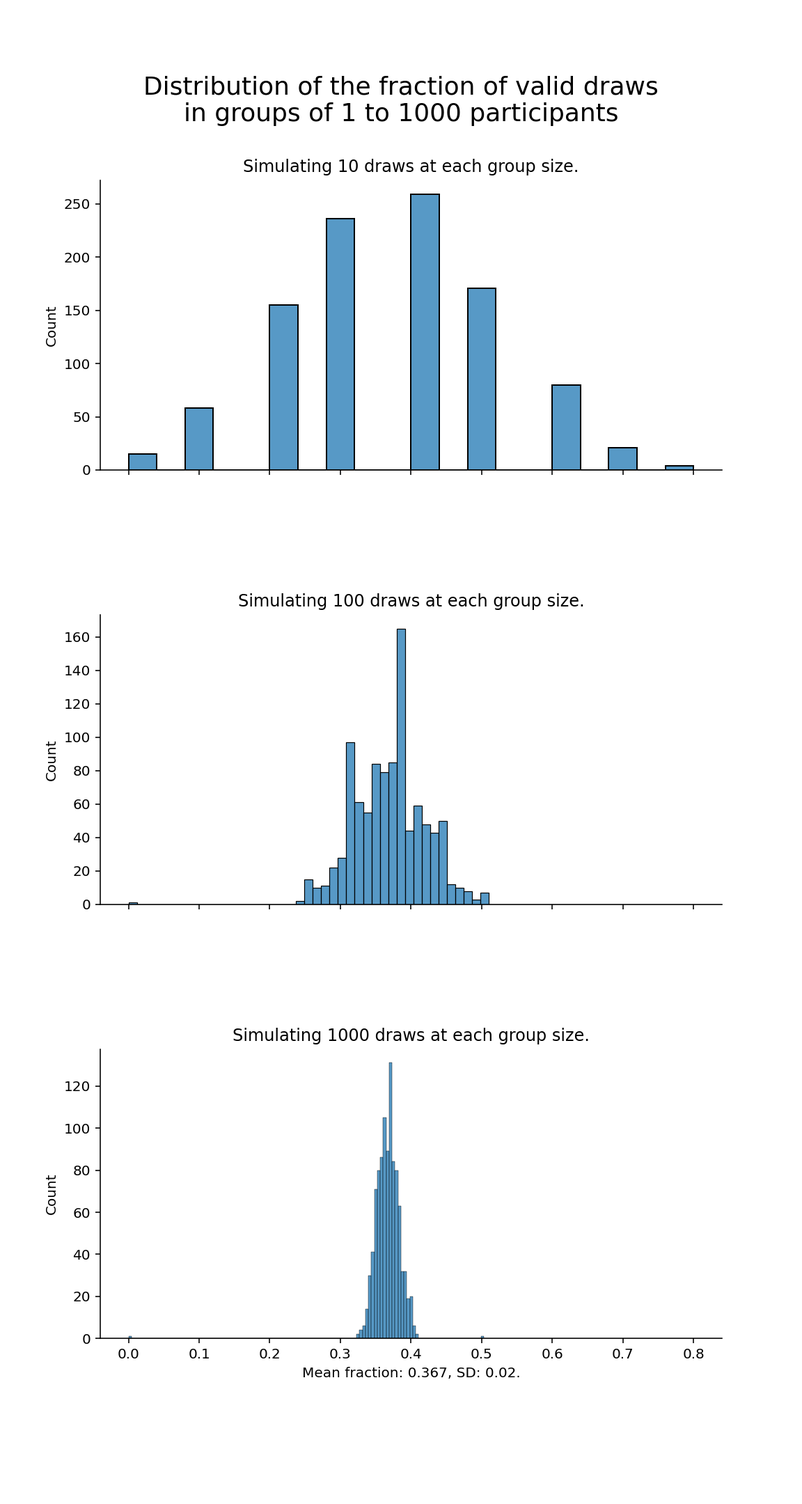
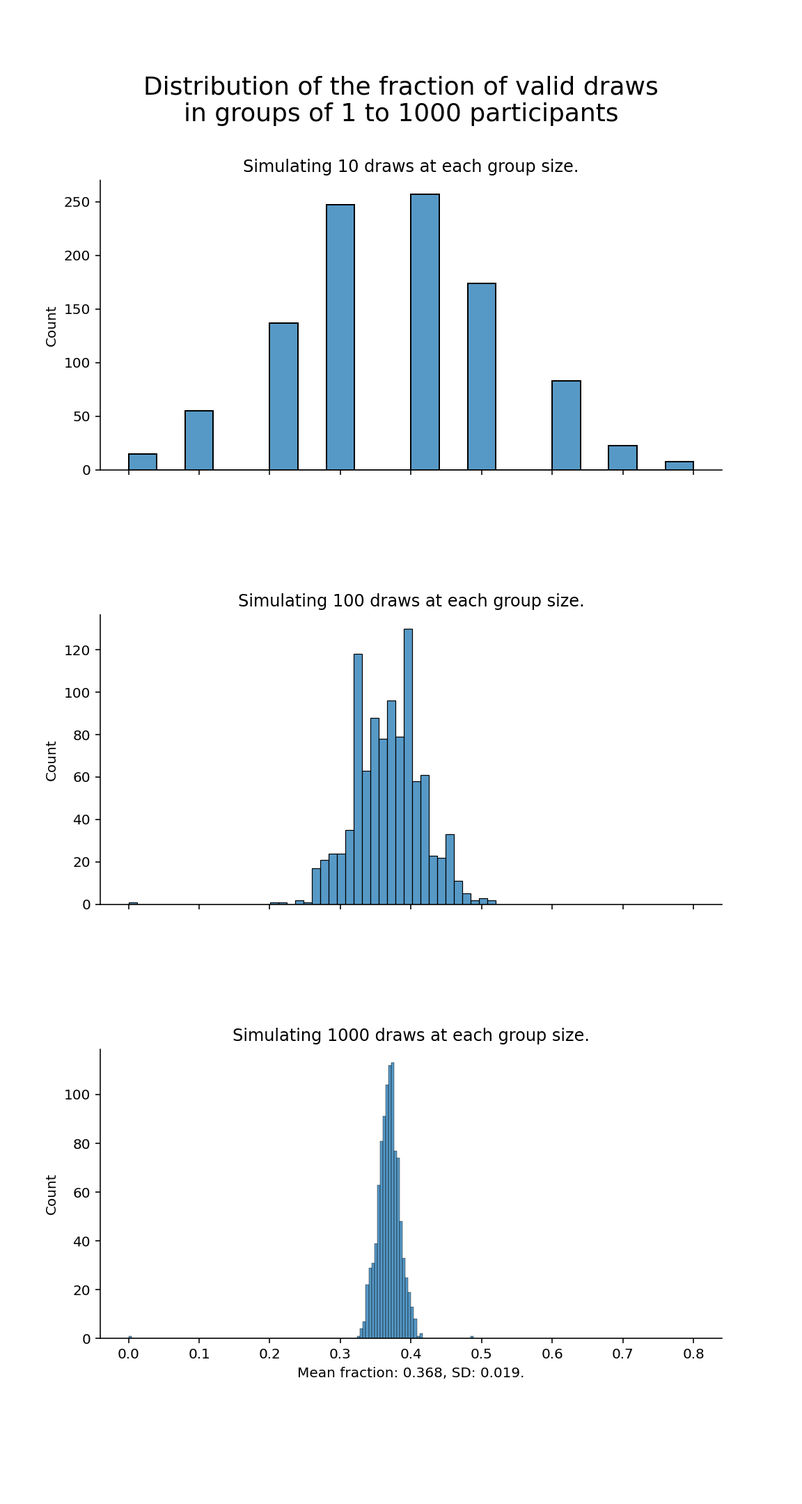
Refines details on the xaringanExtra clipboard feature.
Sets colors of fa-icons to jolly data theme colors.

diff --git a/_site/posts/2021-11-02-secret-santa/index.html b/_site/posts/2021-11-02-secret-santa/index.html
@@ -89,7 +89,7 @@ code span.wa { color: #5e5e5e; font-style: italic; } /* Warning */
   <!--radix_placeholder_meta_tags-->
 <title>jolly data: Secret Santa</title>
 
-<meta property="description" itemprop="description" content="With &quot;Spooky Season&quot; coming to an end, Holiday Season is up next. Time for a little themed article!&#10;If you have done Secret Santa rounds before, you might have run into the issue that that someone drew his or her own name from the lots. How often will you have to repeat the drawing until no one draws her or his own name?"/>
+<meta property="description" itemprop="description" content="With &quot;Spooky Season&quot; coming to an end, Holiday Season is up next. If you have done Secret Santa rounds before, you might have run into the issue that that someone drew his or her own name from the lots. How often will you have to repeat the drawing until no one draws her or his own name?"/>
 
 <link rel="canonical" href="https://jollydata.blog/posts/2021-11-02-secret-santa/"/>
 <link rel="license" href="https://creativecommons.org/licenses/by/4.0/"/>
@@ -103,7 +103,7 @@ code span.wa { color: #5e5e5e; font-style: italic; } /* Warning */
 <!--  https://developers.facebook.com/docs/sharing/webmasters#markup -->
 <meta property="og:title" content="jolly data: Secret Santa"/>
 <meta property="og:type" content="article"/>
-<meta property="og:description" content="With &quot;Spooky Season&quot; coming to an end, Holiday Season is up next. Time for a little themed article!&#10;If you have done Secret Santa rounds before, you might have run into the issue that that someone drew his or her own name from the lots. How often will you have to repeat the drawing until no one draws her or his own name?"/>
+<meta property="og:description" content="With &quot;Spooky Season&quot; coming to an end, Holiday Season is up next. If you have done Secret Santa rounds before, you might have run into the issue that that someone drew his or her own name from the lots. How often will you have to repeat the drawing until no one draws her or his own name?"/>
 <meta property="og:url" content="https://jollydata.blog/posts/2021-11-02-secret-santa/"/>
 <meta property="og:image" content="https://jollydata.blog/posts/2021-11-02-secret-santa/secret-santa_files/figure-html5/unnamed-chunk-6-1.png"/>
 <meta property="og:image:width" content="1152"/>
@@ -114,7 +114,7 @@ code span.wa { color: #5e5e5e; font-style: italic; } /* Warning */
 <!--  https://dev.twitter.com/cards/types/summary -->
 <meta property="twitter:card" content="summary_large_image"/>
 <meta property="twitter:title" content="jolly data: Secret Santa"/>
-<meta property="twitter:description" content="With &quot;Spooky Season&quot; coming to an end, Holiday Season is up next. Time for a little themed article!&#10;If you have done Secret Santa rounds before, you might have run into the issue that that someone drew his or her own name from the lots. How often will you have to repeat the drawing until no one draws her or his own name?"/>
+<meta property="twitter:description" content="With &quot;Spooky Season&quot; coming to an end, Holiday Season is up next. If you have done Secret Santa rounds before, you might have run into the issue that that someone drew his or her own name from the lots. How often will you have to repeat the drawing until no one draws her or his own name?"/>
 <meta property="twitter:url" content="https://jollydata.blog/posts/2021-11-02-secret-santa/"/>
 <meta property="twitter:image" content="https://jollydata.blog/posts/2021-11-02-secret-santa/secret-santa_files/figure-html5/unnamed-chunk-6-1.png"/>
 <meta property="twitter:image:width" content="1152"/>
@@ -134,12 +134,12 @@ code span.wa { color: #5e5e5e; font-style: italic; } /* Warning */
   <!--radix_placeholder_rmarkdown_metadata-->
 
 <script type="text/json" id="radix-rmarkdown-metadata">
-{"type":"list","attributes":{"names":{"type":"character","attributes":{},"value":["title","description","author","date","output","creative_commons","categories","base_url","preview","twitter","citation_url","canonical_url"]}},"value":[{"type":"character","attributes":{},"value":["Secret Santa"]},{"type":"character","attributes":{},"value":["With \"Spooky Season\" coming to an end, Holiday Season is up next. Time for a little themed article!\nIf you have done Secret Santa rounds before, you might have run into the issue that that someone drew his or her own name from the lots. How often will you have to repeat the drawing until no one draws her or his own name?"]},{"type":"list","attributes":{},"value":[{"type":"list","attributes":{"names":{"type":"character","attributes":{},"value":["name","url","affiliation","affiliation_url","orcid_id"]}},"value":[{"type":"character","attributes":{},"value":["Christian A. Gebhard"]},{"type":"character","attributes":{},"value":["https://twitter.com/c_gebhard"]},{"type":"character","attributes":{},"value":["jolly data blog"]},{"type":"character","attributes":{},"value":["https://jollydata.blog/about.html"]},{"type":"character","attributes":{},"value":["0000-0002-8792-565X"]}]}]},{"type":"character","attributes":{},"value":["2021-11-02"]},{"type":"list","attributes":{"names":{"type":"character","attributes":{},"value":["distill::distill_article"]}},"value":[{"type":"list","attributes":{"names":{"type":"character","attributes":{},"value":["self_contained","toc","toc-floating","code_folding"]}},"value":[{"type":"logical","attributes":{},"value":[false]},{"type":"logical","attributes":{},"value":[true]},{"type":"logical","attributes":{},"value":[true]},{"type":"logical","attributes":{},"value":[true]}]}]},{"type":"character","attributes":{},"value":["CC BY"]},{"type":"character","attributes":{},"value":["python","simulation"]},{"type":"character","attributes":{},"value":["https://jollydata.blog/posts/2021-08-21-new-additions"]},{"type":"character","attributes":{},"value":["images/windrose_black.png"]},{"type":"list","attributes":{"names":{"type":"character","attributes":{},"value":["site","creator"]}},"value":[{"type":"character","attributes":{},"value":["@JollydataB"]},{"type":"character","attributes":{},"value":["@c_gebhard"]}]},{"type":"character","attributes":{},"value":["https://jollydata.blog/posts/2021-11-02-secret-santa/"]},{"type":"character","attributes":{},"value":["https://jollydata.blog/posts/2021-11-02-secret-santa/"]}]}
+{"type":"list","attributes":{"names":{"type":"character","attributes":{},"value":["title","description","author","date","output","creative_commons","categories","base_url","preview","twitter","citation_url","canonical_url"]}},"value":[{"type":"character","attributes":{},"value":["Secret Santa"]},{"type":"character","attributes":{},"value":["With \"Spooky Season\" coming to an end, Holiday Season is up next. If you have done Secret Santa rounds before, you might have run into the issue that that someone drew his or her own name from the lots. How often will you have to repeat the drawing until no one draws her or his own name?"]},{"type":"list","attributes":{},"value":[{"type":"list","attributes":{"names":{"type":"character","attributes":{},"value":["name","url","affiliation","affiliation_url","orcid_id"]}},"value":[{"type":"character","attributes":{},"value":["Christian A. Gebhard"]},{"type":"character","attributes":{},"value":["https://twitter.com/c_gebhard"]},{"type":"character","attributes":{},"value":["jolly data blog"]},{"type":"character","attributes":{},"value":["https://jollydata.blog/about.html"]},{"type":"character","attributes":{},"value":["0000-0002-8792-565X"]}]}]},{"type":"character","attributes":{},"value":["2021-11-02"]},{"type":"list","attributes":{"names":{"type":"character","attributes":{},"value":["distill::distill_article"]}},"value":[{"type":"list","attributes":{"names":{"type":"character","attributes":{},"value":["self_contained","toc","toc-floating","code_folding"]}},"value":[{"type":"logical","attributes":{},"value":[false]},{"type":"logical","attributes":{},"value":[true]},{"type":"logical","attributes":{},"value":[true]},{"type":"logical","attributes":{},"value":[true]}]}]},{"type":"character","attributes":{},"value":["CC BY"]},{"type":"character","attributes":{},"value":["python","simulation"]},{"type":"character","attributes":{},"value":["https://jollydata.blog/posts/2021-11-02-secret-santa"]},{"type":"character","attributes":{},"value":["images/windrose_black.png"]},{"type":"list","attributes":{"names":{"type":"character","attributes":{},"value":["site","creator"]}},"value":[{"type":"character","attributes":{},"value":["@JollydataB"]},{"type":"character","attributes":{},"value":["@c_gebhard"]}]},{"type":"character","attributes":{},"value":["https://jollydata.blog/posts/2021-11-02-secret-santa/"]},{"type":"character","attributes":{},"value":["https://jollydata.blog/posts/2021-11-02-secret-santa/"]}]}
 </script>
 <!--/radix_placeholder_rmarkdown_metadata-->
   
   <script type="text/json" id="radix-resource-manifest">
-  {"type":"character","attributes":{},"value":["secret-santa_files/figure-html5/unnamed-chunk-6-1.png","secret-santa_files/figure-html5/unnamed-chunk-9-3.png"]}
+  {"type":"character","attributes":{},"value":["secret-santa_files/anchor-4.2.2/anchor.min.js","secret-santa_files/bowser-1.9.3/bowser.min.js","secret-santa_files/clipboard-2.0.6/clipboard.min.js","secret-santa_files/distill-2.2.21/template.v2.js","secret-santa_files/figure-html5/unnamed-chunk-6-1.png","secret-santa_files/figure-html5/unnamed-chunk-9-3.png","secret-santa_files/font-awesome-5.1.0/css/all.css","secret-santa_files/font-awesome-5.1.0/css/v4-shims.css","secret-santa_files/font-awesome-5.1.0/webfonts/fa-brands-400.eot","secret-santa_files/font-awesome-5.1.0/webfonts/fa-brands-400.svg","secret-santa_files/font-awesome-5.1.0/webfonts/fa-brands-400.ttf","secret-santa_files/font-awesome-5.1.0/webfonts/fa-brands-400.woff","secret-santa_files/font-awesome-5.1.0/webfonts/fa-brands-400.woff2","secret-santa_files/font-awesome-5.1.0/webfonts/fa-regular-400.eot","secret-santa_files/font-awesome-5.1.0/webfonts/fa-regular-400.svg","secret-santa_files/font-awesome-5.1.0/webfonts/fa-regular-400.ttf","secret-santa_files/font-awesome-5.1.0/webfonts/fa-regular-400.woff","secret-santa_files/font-awesome-5.1.0/webfonts/fa-regular-400.woff2","secret-santa_files/font-awesome-5.1.0/webfonts/fa-solid-900.eot","secret-santa_files/font-awesome-5.1.0/webfonts/fa-solid-900.svg","secret-santa_files/font-awesome-5.1.0/webfonts/fa-solid-900.ttf","secret-santa_files/font-awesome-5.1.0/webfonts/fa-solid-900.woff","secret-santa_files/font-awesome-5.1.0/webfonts/fa-solid-900.woff2","secret-santa_files/header-attrs-2.11/header-attrs.js","secret-santa_files/jquery-3.6.0/jquery-3.6.0.js","secret-santa_files/jquery-3.6.0/jquery-3.6.0.min.js","secret-santa_files/jquery-3.6.0/jquery-3.6.0.min.map","secret-santa_files/kePrint-0.0.1/kePrint.js","secret-santa_files/lightable-0.0.1/lightable.css","secret-santa_files/panelset-0.2.6/panelset.css","secret-santa_files/panelset-0.2.6/panelset.js","secret-santa_files/popper-2.6.0/popper.min.js","secret-santa_files/tippy-6.2.7/tippy-bundle.umd.min.js","secret-santa_files/tippy-6.2.7/tippy-light-border.css","secret-santa_files/tippy-6.2.7/tippy.css","secret-santa_files/tippy-6.2.7/tippy.umd.min.js","secret-santa_files/webcomponents-2.0.0/webcomponents.js","secret-santa_files/xaringanExtra-clipboard-0.2.6/xaringanExtra-clipboard.css","secret-santa_files/xaringanExtra-clipboard-0.2.6/xaringanExtra-clipboard.js"]}
   </script>
   <!--radix_placeholder_navigation_in_header-->
 <meta name="distill:offset" content="../.."/>
@@ -2598,7 +2598,7 @@ d-appendix d-footnote-list a.footnote-backlink {
   <script src="../../site_libs/clipboard-2.0.6/clipboard.min.js"></script>
   <link href="../../site_libs/xaringanExtra-clipboard-0.2.6/xaringanExtra-clipboard.css" rel="stylesheet" />
   <script src="../../site_libs/xaringanExtra-clipboard-0.2.6/xaringanExtra-clipboard.js"></script>
-  <script>window.xaringanExtraClipboard(null, {"button":"<i class=\"fa fa-clipboard\"><\/i>","success":"<i class=\"fa fa-check\" style=\"color: #90BE6D\"><\/i>","error":"Press Ctrl+C to Copy"})</script>
+  <script>window.xaringanExtraClipboard(null, {"button":"<i class=\"fa fa-clipboard\" style=\"color: #394755\"><\/i>","success":"<i class=\"fa fa-check\" style=\"color: #1BC7DC\"><\/i>","error":"Press Ctrl+C to Copy"})</script>
   <link href="../../site_libs/font-awesome-5.1.0/css/all.css" rel="stylesheet" />
   <link href="../../site_libs/font-awesome-5.1.0/css/v4-shims.css" rel="stylesheet" />
   <script src="../../site_libs/kePrint-0.0.1/kePrint.js"></script>
@@ -2663,7 +2663,7 @@ cookieconsent.run({
 <!--radix_placeholder_front_matter-->
 
 <script id="distill-front-matter" type="text/json">
-{"title":"Secret Santa","description":"With \"Spooky Season\" coming to an end, Holiday Season is up next. Time for a little themed article!\nIf you have done Secret Santa rounds before, you might have run into the issue that that someone drew his or her own name from the lots. How often will you have to repeat the drawing until no one draws her or his own name?","authors":[{"author":"Christian A. Gebhard","authorURL":"https://twitter.com/c_gebhard","affiliation":"jolly data blog","affiliationURL":"https://jollydata.blog/about.html","orcidID":"0000-0002-8792-565X"}],"publishedDate":"2021-11-02T00:00:00.000+01:00","citationText":"Gebhard, 2021"}
+{"title":"Secret Santa","description":"With \"Spooky Season\" coming to an end, Holiday Season is up next. If you have done Secret Santa rounds before, you might have run into the issue that that someone drew his or her own name from the lots. How often will you have to repeat the drawing until no one draws her or his own name?","authors":[{"author":"Christian A. Gebhard","authorURL":"https://twitter.com/c_gebhard","affiliation":"jolly data blog","affiliationURL":"https://jollydata.blog/about.html","orcidID":"0000-0002-8792-565X"}],"publishedDate":"2021-11-02T00:00:00.000+01:00","citationText":"Gebhard, 2021"}
 </script>
 
 <!--/radix_placeholder_front_matter-->
@@ -2701,7 +2701,7 @@ cookieconsent.run({
   <a href="../../index.html#category:simulation" class="dt-tag">simulation</a>
 </div>
 <!--/radix_placeholder_categories-->
-<p><p>With “Spooky Season” coming to an end, Holiday Season is up next. Time for a little themed article! If you have done Secret Santa rounds before, you might have run into the issue that that someone drew his or her own name from the lots. How often will you have to repeat the drawing until no one draws her or his own name?</p></p>
+<p><p>With “Spooky Season” coming to an end, Holiday Season is up next. If you have done Secret Santa rounds before, you might have run into the issue that that someone drew his or her own name from the lots. How often will you have to repeat the drawing until no one draws her or his own name?</p></p>
 </div>
 
 <div class="d-byline">
@@ -2916,13 +2916,13 @@ Show code
 </details>
 <pre><code>#&gt;           people  rounds      valid
 #&gt; count  46.000000    46.0  46.000000
-#&gt; mean   26.500000   100.0   0.368696
-#&gt; std    13.422618     0.0   0.046361
+#&gt; mean   26.500000   100.0   0.362174
+#&gt; std    13.422618     0.0   0.041037
 #&gt; min     4.000000   100.0   0.280000
 #&gt; 25%    15.250000   100.0   0.330000
-#&gt; 50%    26.500000   100.0   0.370000
-#&gt; 75%    37.750000   100.0   0.407500
-#&gt; max    49.000000   100.0   0.450000</code></pre>
+#&gt; 50%    26.500000   100.0   0.360000
+#&gt; 75%    37.750000   100.0   0.380000
+#&gt; max    49.000000   100.0   0.510000</code></pre>
 </div>
 <h3 id="how-are-the-values-distributed">How are the values distributed?</h3>
 <p>Is there a trend, as the number of participants grows? To analyse this and to narrow down the distribution, we will now repeat the simulation for a larger max_group size, and we will increase the number of simulated rounds per group. For this we’ll use another function <code>sim_steps()</code> that calls the previously described functions. For each step a histogram of the resulting fractions of correct draws is plotted, showing a narrowing distribution.</p>
@@ -3181,22 +3181,6 @@ fraction
 </tr>
 </tbody>
 </table>
-<details>
-<summary>
-Show code
-</summary>
-<div class="sourceCode">
-<pre class="sourceCode r"><code class="sourceCode r"><span class='co'># ffp %&gt;% </span>
-<span class='co'>#   kableExtra::kable_material()</span>
-<span class='co'># </span>
-<span class='co'># ffp %&gt;% </span>
-<span class='co'>#   kableExtra::kable_minimal()</span>
-<span class='co'># </span>
-<span class='co'># ffp %&gt;% </span>
-<span class='co'>#   kableExtra::kable_paper()</span>
-</code></pre>
-</div>
-</details>
 </div>
 <h2 id="summary-and-comments">Summary and comments</h2>
 <p>If you’re planning on starting a secret santa round infinitely many people, you can expect a valid draw of lots in <span class="math inline">\(\frac{1}{e}\sim 0,3678794\)</span>. If you’re doing it in reasonably large groups of at least 4 participants, the probability that no one draws a lot with her or his own name on is roughly 37%.</p>

diff --git a/_posts/2021-11-02-secret-santa/secret-santa.html b/_posts/2021-11-02-secret-santa/secret-santa.html
@@ -89,7 +89,7 @@ code span.wa { color: #5e5e5e; font-style: italic; } /* Warning */
   <!--radix_placeholder_meta_tags-->
   <title>Secret Santa</title>
 
-  <meta property="description" itemprop="description" content="With &quot;Spooky Season&quot; coming to an end, Holiday Season is up next. Time for a little themed article!&#10;If you have done Secret Santa rounds before, you might have run into the issue that that someone drew his or her own name from the lots. How often will you have to repeat the drawing until no one draws her or his own name?"/>
+  <meta property="description" itemprop="description" content="With &quot;Spooky Season&quot; coming to an end, Holiday Season is up next. If you have done Secret Santa rounds before, you might have run into the issue that that someone drew his or her own name from the lots. How often will you have to repeat the drawing until no one draws her or his own name?"/>
 
   <link rel="license" href="https://creativecommons.org/licenses/by/4.0/"/>
 
@@ -101,13 +101,13 @@ code span.wa { color: #5e5e5e; font-style: italic; } /* Warning */
   <!--  https://developers.facebook.com/docs/sharing/webmasters#markup -->
   <meta property="og:title" content="Secret Santa"/>
   <meta property="og:type" content="article"/>
-  <meta property="og:description" content="With &quot;Spooky Season&quot; coming to an end, Holiday Season is up next. Time for a little themed article!&#10;If you have done Secret Santa rounds before, you might have run into the issue that that someone drew his or her own name from the lots. How often will you have to repeat the drawing until no one draws her or his own name?"/>
+  <meta property="og:description" content="With &quot;Spooky Season&quot; coming to an end, Holiday Season is up next. If you have done Secret Santa rounds before, you might have run into the issue that that someone drew his or her own name from the lots. How often will you have to repeat the drawing until no one draws her or his own name?"/>
   <meta property="og:locale" content="en_US"/>
 
   <!--  https://dev.twitter.com/cards/types/summary -->
   <meta property="twitter:card" content="summary"/>
   <meta property="twitter:title" content="Secret Santa"/>
-  <meta property="twitter:description" content="With &quot;Spooky Season&quot; coming to an end, Holiday Season is up next. Time for a little themed article!&#10;If you have done Secret Santa rounds before, you might have run into the issue that that someone drew his or her own name from the lots. How often will you have to repeat the drawing until no one draws her or his own name?"/>
+  <meta property="twitter:description" content="With &quot;Spooky Season&quot; coming to an end, Holiday Season is up next. If you have done Secret Santa rounds before, you might have run into the issue that that someone drew his or her own name from the lots. How often will you have to repeat the drawing until no one draws her or his own name?"/>
   <meta property="twitter:site" content="@JollydataB"/>
   <meta property="twitter:creator" content="@c_gebhard"/>
 
@@ -115,12 +115,12 @@ code span.wa { color: #5e5e5e; font-style: italic; } /* Warning */
   <!--radix_placeholder_rmarkdown_metadata-->
 
   <script type="text/json" id="radix-rmarkdown-metadata">
-  {"type":"list","attributes":{"names":{"type":"character","attributes":{},"value":["title","description","author","date","output","creative_commons","categories","base_url","preview","twitter"]}},"value":[{"type":"character","attributes":{},"value":["Secret Santa"]},{"type":"character","attributes":{},"value":["With \"Spooky Season\" coming to an end, Holiday Season is up next. Time for a little themed article!\nIf you have done Secret Santa rounds before, you might have run into the issue that that someone drew his or her own name from the lots. How often will you have to repeat the drawing until no one draws her or his own name? \n"]},{"type":"list","attributes":{},"value":[{"type":"list","attributes":{"names":{"type":"character","attributes":{},"value":["name","url","affiliation","affiliation_url","orcid_id"]}},"value":[{"type":"character","attributes":{},"value":["Christian A. Gebhard"]},{"type":"character","attributes":{},"value":["https://twitter.com/c_gebhard"]},{"type":"character","attributes":{},"value":["jolly data blog"]},{"type":"character","attributes":{},"value":["https://jollydata.blog/about.html"]},{"type":"character","attributes":{},"value":["0000-0002-8792-565X"]}]}]},{"type":"character","attributes":{},"value":["2021-11-02"]},{"type":"list","attributes":{"names":{"type":"character","attributes":{},"value":["distill::distill_article"]}},"value":[{"type":"list","attributes":{"names":{"type":"character","attributes":{},"value":["self_contained","toc","toc-floating","code_folding"]}},"value":[{"type":"logical","attributes":{},"value":[false]},{"type":"logical","attributes":{},"value":[true]},{"type":"logical","attributes":{},"value":[true]},{"type":"logical","attributes":{},"value":[true]}]}]},{"type":"character","attributes":{},"value":["CC BY"]},{"type":"character","attributes":{},"value":["python","simulation"]},{"type":"character","attributes":{},"value":["https://jollydata.blog/posts/2021-08-21-new-additions"]},{"type":"character","attributes":{},"value":["images/windrose_black.png"]},{"type":"list","attributes":{"names":{"type":"character","attributes":{},"value":["site","creator"]}},"value":[{"type":"character","attributes":{},"value":["@JollydataB"]},{"type":"character","attributes":{},"value":["@c_gebhard"]}]}]}
+  {"type":"list","attributes":{"names":{"type":"character","attributes":{},"value":["title","description","author","date","output","creative_commons","categories","base_url","preview","twitter"]}},"value":[{"type":"character","attributes":{},"value":["Secret Santa"]},{"type":"character","attributes":{},"value":["With \"Spooky Season\" coming to an end, Holiday Season is up next. If you have done Secret Santa rounds before, you might have run into the issue that that someone drew his or her own name from the lots. How often will you have to repeat the drawing until no one draws her or his own name? \n"]},{"type":"list","attributes":{},"value":[{"type":"list","attributes":{"names":{"type":"character","attributes":{},"value":["name","url","affiliation","affiliation_url","orcid_id"]}},"value":[{"type":"character","attributes":{},"value":["Christian A. Gebhard"]},{"type":"character","attributes":{},"value":["https://twitter.com/c_gebhard"]},{"type":"character","attributes":{},"value":["jolly data blog"]},{"type":"character","attributes":{},"value":["https://jollydata.blog/about.html"]},{"type":"character","attributes":{},"value":["0000-0002-8792-565X"]}]}]},{"type":"character","attributes":{},"value":["2021-11-02"]},{"type":"list","attributes":{"names":{"type":"character","attributes":{},"value":["distill::distill_article"]}},"value":[{"type":"list","attributes":{"names":{"type":"character","attributes":{},"value":["self_contained","toc","toc-floating","code_folding"]}},"value":[{"type":"logical","attributes":{},"value":[false]},{"type":"logical","attributes":{},"value":[true]},{"type":"logical","attributes":{},"value":[true]},{"type":"logical","attributes":{},"value":[true]}]}]},{"type":"character","attributes":{},"value":["CC BY"]},{"type":"character","attributes":{},"value":["python","simulation"]},{"type":"character","attributes":{},"value":["https://jollydata.blog/posts/2021-11-02-secret-santa"]},{"type":"character","attributes":{},"value":["images/windrose_black.png"]},{"type":"list","attributes":{"names":{"type":"character","attributes":{},"value":["site","creator"]}},"value":[{"type":"character","attributes":{},"value":["@JollydataB"]},{"type":"character","attributes":{},"value":["@c_gebhard"]}]}]}
   </script>
   <!--/radix_placeholder_rmarkdown_metadata-->
   
   <script type="text/json" id="radix-resource-manifest">
-  {"type":"character","attributes":{},"value":["secret-santa_files/figure-html5/unnamed-chunk-6-1.png","secret-santa_files/figure-html5/unnamed-chunk-9-3.png"]}
+  {"type":"character","attributes":{},"value":["secret-santa_files/anchor-4.2.2/anchor.min.js","secret-santa_files/bowser-1.9.3/bowser.min.js","secret-santa_files/clipboard-2.0.6/clipboard.min.js","secret-santa_files/distill-2.2.21/template.v2.js","secret-santa_files/figure-html5/unnamed-chunk-6-1.png","secret-santa_files/figure-html5/unnamed-chunk-9-3.png","secret-santa_files/font-awesome-5.1.0/css/all.css","secret-santa_files/font-awesome-5.1.0/css/v4-shims.css","secret-santa_files/font-awesome-5.1.0/webfonts/fa-brands-400.eot","secret-santa_files/font-awesome-5.1.0/webfonts/fa-brands-400.svg","secret-santa_files/font-awesome-5.1.0/webfonts/fa-brands-400.ttf","secret-santa_files/font-awesome-5.1.0/webfonts/fa-brands-400.woff","secret-santa_files/font-awesome-5.1.0/webfonts/fa-brands-400.woff2","secret-santa_files/font-awesome-5.1.0/webfonts/fa-regular-400.eot","secret-santa_files/font-awesome-5.1.0/webfonts/fa-regular-400.svg","secret-santa_files/font-awesome-5.1.0/webfonts/fa-regular-400.ttf","secret-santa_files/font-awesome-5.1.0/webfonts/fa-regular-400.woff","secret-santa_files/font-awesome-5.1.0/webfonts/fa-regular-400.woff2","secret-santa_files/font-awesome-5.1.0/webfonts/fa-solid-900.eot","secret-santa_files/font-awesome-5.1.0/webfonts/fa-solid-900.svg","secret-santa_files/font-awesome-5.1.0/webfonts/fa-solid-900.ttf","secret-santa_files/font-awesome-5.1.0/webfonts/fa-solid-900.woff","secret-santa_files/font-awesome-5.1.0/webfonts/fa-solid-900.woff2","secret-santa_files/header-attrs-2.11/header-attrs.js","secret-santa_files/jquery-3.6.0/jquery-3.6.0.js","secret-santa_files/jquery-3.6.0/jquery-3.6.0.min.js","secret-santa_files/jquery-3.6.0/jquery-3.6.0.min.map","secret-santa_files/kePrint-0.0.1/kePrint.js","secret-santa_files/lightable-0.0.1/lightable.css","secret-santa_files/panelset-0.2.6/panelset.css","secret-santa_files/panelset-0.2.6/panelset.js","secret-santa_files/popper-2.6.0/popper.min.js","secret-santa_files/tippy-6.2.7/tippy-bundle.umd.min.js","secret-santa_files/tippy-6.2.7/tippy-light-border.css","secret-santa_files/tippy-6.2.7/tippy.css","secret-santa_files/tippy-6.2.7/tippy.umd.min.js","secret-santa_files/webcomponents-2.0.0/webcomponents.js","secret-santa_files/xaringanExtra-clipboard-0.2.6/xaringanExtra-clipboard.css","secret-santa_files/xaringanExtra-clipboard-0.2.6/xaringanExtra-clipboard.js"]}
   </script>
   <!--radix_placeholder_navigation_in_header-->
   <!--/radix_placeholder_navigation_in_header-->
@@ -1447,7 +1447,7 @@ code span.wa { color: #5e5e5e; font-style: italic; } /* Warning */
   <script src="secret-santa_files/clipboard-2.0.6/clipboard.min.js"></script>
   <link href="secret-santa_files/xaringanExtra-clipboard-0.2.6/xaringanExtra-clipboard.css" rel="stylesheet" />
   <script src="secret-santa_files/xaringanExtra-clipboard-0.2.6/xaringanExtra-clipboard.js"></script>
-  <script>window.xaringanExtraClipboard(null, {"button":"<i class=\"fa fa-clipboard\"><\/i>","success":"<i class=\"fa fa-check\" style=\"color: #90BE6D\"><\/i>","error":"Press Ctrl+C to Copy"})</script>
+  <script>window.xaringanExtraClipboard(null, {"button":"<i class=\"fa fa-clipboard\" style=\"color: #394755\"><\/i>","success":"<i class=\"fa fa-check\" style=\"color: #1BC7DC\"><\/i>","error":"Press Ctrl+C to Copy"})</script>
   <link href="secret-santa_files/font-awesome-5.1.0/css/all.css" rel="stylesheet" />
   <link href="secret-santa_files/font-awesome-5.1.0/css/v4-shims.css" rel="stylesheet" />
   <script src="secret-santa_files/kePrint-0.0.1/kePrint.js"></script>
@@ -1472,7 +1472,7 @@ code span.wa { color: #5e5e5e; font-style: italic; } /* Warning */
 <!--radix_placeholder_front_matter-->
 
 <script id="distill-front-matter" type="text/json">
-{"title":"Secret Santa","description":"With \"Spooky Season\" coming to an end, Holiday Season is up next. Time for a little themed article!\nIf you have done Secret Santa rounds before, you might have run into the issue that that someone drew his or her own name from the lots. How often will you have to repeat the drawing until no one draws her or his own name?","authors":[{"author":"Christian A. Gebhard","authorURL":"https://twitter.com/c_gebhard","affiliation":"jolly data blog","affiliationURL":"https://jollydata.blog/about.html","orcidID":"0000-0002-8792-565X"}],"publishedDate":"2021-11-02T00:00:00.000+01:00","citationText":"Gebhard, 2021"}
+{"title":"Secret Santa","description":"With \"Spooky Season\" coming to an end, Holiday Season is up next. If you have done Secret Santa rounds before, you might have run into the issue that that someone drew his or her own name from the lots. How often will you have to repeat the drawing until no one draws her or his own name?","authors":[{"author":"Christian A. Gebhard","authorURL":"https://twitter.com/c_gebhard","affiliation":"jolly data blog","affiliationURL":"https://jollydata.blog/about.html","orcidID":"0000-0002-8792-565X"}],"publishedDate":"2021-11-02T00:00:00.000+01:00","citationText":"Gebhard, 2021"}
 </script>
 
 <!--/radix_placeholder_front_matter-->
@@ -1489,7 +1489,7 @@ code span.wa { color: #5e5e5e; font-style: italic; } /* Warning */
 <div class="dt=tag">simulation</div>
 </div>
 <!--/radix_placeholder_categories-->
-<p><p>With “Spooky Season” coming to an end, Holiday Season is up next. Time for a little themed article! If you have done Secret Santa rounds before, you might have run into the issue that that someone drew his or her own name from the lots. How often will you have to repeat the drawing until no one draws her or his own name?</p></p>
+<p><p>With “Spooky Season” coming to an end, Holiday Season is up next. If you have done Secret Santa rounds before, you might have run into the issue that that someone drew his or her own name from the lots. How often will you have to repeat the drawing until no one draws her or his own name?</p></p>
 </div>
 
 <div class="d-byline">
@@ -1704,13 +1704,13 @@ Show code
 </details>
 <pre><code>#&gt;           people  rounds      valid
 #&gt; count  46.000000    46.0  46.000000
-#&gt; mean   26.500000   100.0   0.368696
-#&gt; std    13.422618     0.0   0.046361
+#&gt; mean   26.500000   100.0   0.362174
+#&gt; std    13.422618     0.0   0.041037
 #&gt; min     4.000000   100.0   0.280000
 #&gt; 25%    15.250000   100.0   0.330000
-#&gt; 50%    26.500000   100.0   0.370000
-#&gt; 75%    37.750000   100.0   0.407500
-#&gt; max    49.000000   100.0   0.450000</code></pre>
+#&gt; 50%    26.500000   100.0   0.360000
+#&gt; 75%    37.750000   100.0   0.380000
+#&gt; max    49.000000   100.0   0.510000</code></pre>
 </div>
 <h3 id="how-are-the-values-distributed">How are the values distributed?</h3>
 <p>Is there a trend, as the number of participants grows? To analyse this and to narrow down the distribution, we will now repeat the simulation for a larger max_group size, and we will increase the number of simulated rounds per group. For this we’ll use another function <code>sim_steps()</code> that calls the previously described functions. For each step a histogram of the resulting fractions of correct draws is plotted, showing a narrowing distribution.</p>
@@ -1969,22 +1969,6 @@ fraction
 </tr>
 </tbody>
 </table>
-<details>
-<summary>
-Show code
-</summary>
-<div class="sourceCode">
-<pre class="sourceCode r"><code class="sourceCode r"><span class='co'># ffp %&gt;% </span>
-<span class='co'>#   kableExtra::kable_material()</span>
-<span class='co'># </span>
-<span class='co'># ffp %&gt;% </span>
-<span class='co'>#   kableExtra::kable_minimal()</span>
-<span class='co'># </span>
-<span class='co'># ffp %&gt;% </span>
-<span class='co'>#   kableExtra::kable_paper()</span>
-</code></pre>
-</div>
-</details>
 </div>
 <h2 id="summary-and-comments">Summary and comments</h2>
 <p>If you’re planning on starting a secret santa round infinitely many people, you can expect a valid draw of lots in <span class="math inline">\(\frac{1}{e}\sim 0,3678794\)</span>. If you’re doing it in reasonably large groups of at least 4 participants, the probability that no one draws a lot with her or his own name on is roughly 37%.</p>

diff --git a/_site/index.html b/_site/index.html
@@ -2790,7 +2790,7 @@ function init_posts_list() {
 <a href="posts/2021-11-02-secret-santa/" class="post-preview">
 <script class="post-metadata" type="text/json">{"categories":["python","simulation"]}</script>
 <div class="metadata">
-<div class="publishedDate">Nov. 1, 2021</div>
+<div class="publishedDate">Nov. 2, 2021</div>
 <div class="dt-authors">
 <div class="dt-author">Christian A. Gebhard</div>
 </div>
@@ -2804,8 +2804,7 @@ function init_posts_list() {
 <div class="dt-tag">python</div>
 <div class="dt-tag">simulation</div>
 </div>
-<p>With "Spooky Season" coming to an end, Holiday Season is up next. Time for a little themed article!
-If you have done Secret Santa rounds before, you might have run into the issue that that someone drew his or her own name from the lots. How often will you have to repeat the drawing until no one draws her or his own name?</p>
+<p>With "Spooky Season" coming to an end, Holiday Season is up next. If you have done Secret Santa rounds before, you might have run into the issue that that someone drew his or her own name from the lots. How often will you have to repeat the drawing until no one draws her or his own name?</p>
 </div>
 </a>
 <a href="posts/2021-08-22-tea-earl-grey-hot-tidytuesday-2021-week-34/" class="post-preview">
